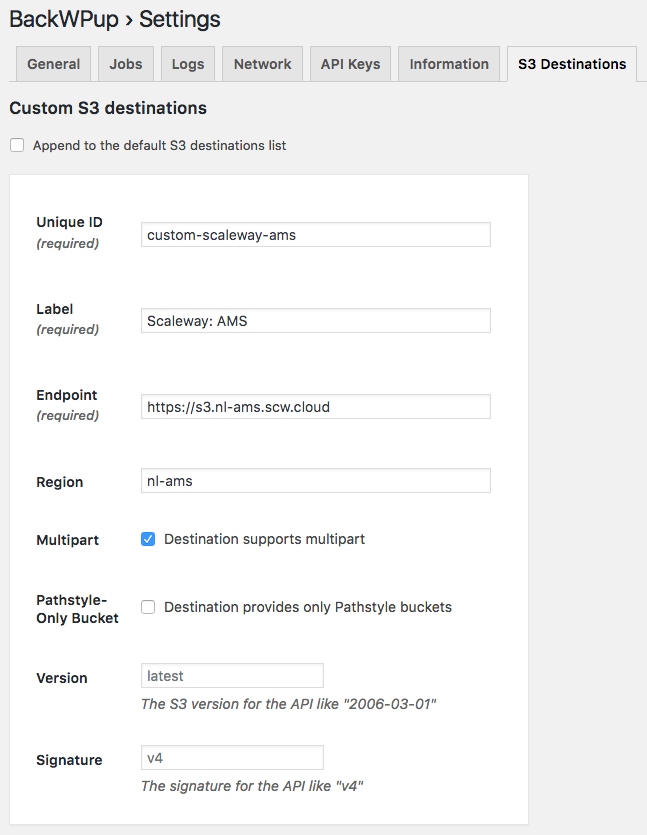
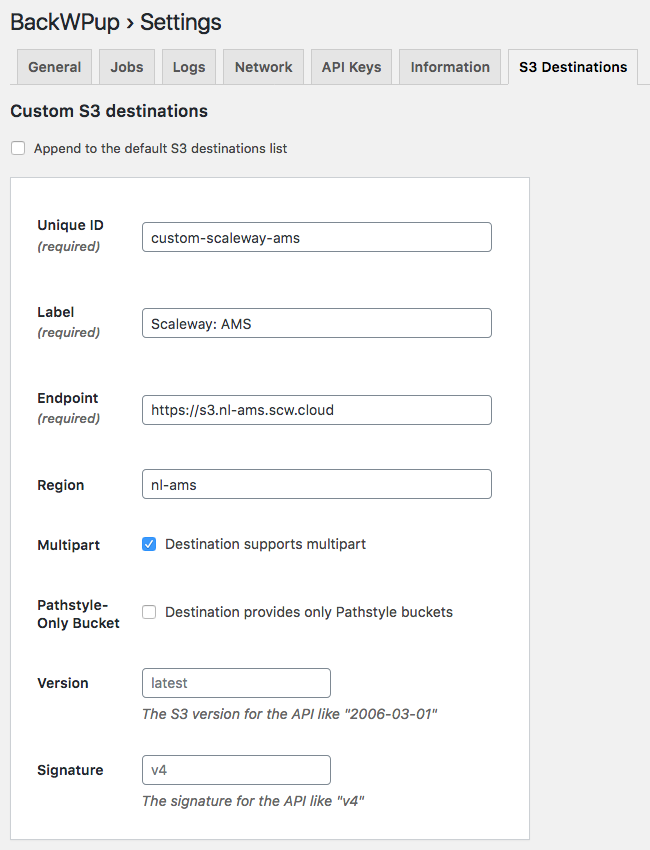
Fix admin notice for networks, update screenshot with WP 5.3

diff --git a/advanced-backwpup-s3-destinations.php b/advanced-backwpup-s3-destinations.php
@@ -3,7 +3,7 @@
  * Plugin name: Advanced S3 Destinations for BackWPup
  * Plugin URI:  https://git.feneas.org/noplanman/advanced-backwpup-s3-destinations
  * Description: Easily add custom S3 destinations for <a href="https://backwpup.com">BackWPup</a>.
- * Version:     1.0.0
+ * Version:     1.1.0
  * Author:      Armando Lüscher
  * Author URI:  https://noplanman.ch
  * Text Domain: advanced-backwpup-s3-destinations
@@ -29,7 +29,7 @@
  * Foundation, Inc., 51 Franklin St, Fifth Floor, Boston, MA  02110-1301  USA
  */
 
-namespace NPM\BackWPupS3Destinations;
+namespace NPM\AdvancedBackWPupS3Destinations;
 
 // Exit if accessed directly.
 defined( 'ABSPATH' ) || exit;
@@ -44,17 +44,23 @@ add_action( 'admin_init', function () {
 	) {
 		deactivate_plugins( plugin_basename( __FILE__ ) );
 
-		add_action( 'admin_notices', function () {
-			?>
-			<div class="notice notice-error is-dismissible">
-				<p><strong><?php _e( 'BackWPup or BackWPup Pro must be installed and activated!', 'advanced-backwpup-s3-destinations' ); ?></strong></p>
-				<p><em><?php _e( 'Advanced S3 Destinations for BackWPup has been deactivated.', 'advanced-backwpup-s3-destinations' ); ?></em></p>
-			</div>
-			<?php
-			unset( $_GET['activate'] );
-		} );
+		add_action( 'admin_notices', 'NPM\AdvancedBackWPupS3Destinations\admin_notice_missing_plugin' );
+		add_action( 'network_admin_notices', 'NPM\AdvancedBackWPupS3Destinations\admin_notice_missing_plugin' );
 	}
 } );
+
+/**
+ * Admin notice to alert about missing BackWPup plugin.
+ */
+function admin_notice_missing_plugin() {
+	?>
+	<div class="notice notice-error is-dismissible">
+		<p><strong><?php _e( 'BackWPup or BackWPup Pro must be installed and activated!', 'advanced-backwpup-s3-destinations' ); ?></strong></p>
+		<p><em><?php _e( 'Advanced S3 Destinations for BackWPup has been deactivated.', 'advanced-backwpup-s3-destinations' ); ?></em></p>
+	</div>
+	<?php
+	unset( $_GET['activate'] );
+}
 
 /**
  * Fetch the saved S3 destinations.
